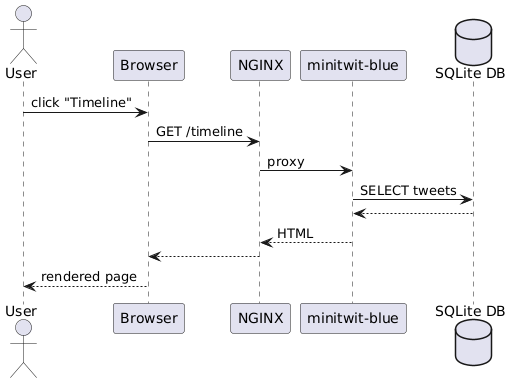
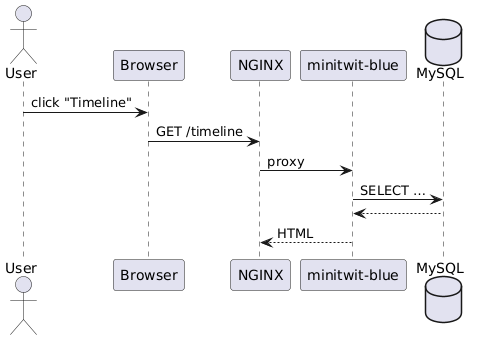
fix: update report PDF generation to remove landscape orientation and adjust MySQL references in documentation

diff --git a/report/report.md b/report/report.md
@@ -13,10 +13,13 @@ The ITU-MiniTwit platform is **fully hosted on DigitalOcean** and embraces a con
 
 | Droplet         | Public IP       | Role                    | Main containers                                                                                             |
 | --------------- | --------------- | ----------------------- | ----------------------------------------------------------------------------------------------------------- |
-| **app-prod-01** | `161.35.71.145` | User-facing application | `nginx`, `minitwit-blue`, `minitwit-green`, `simulator-api`                                                 |
+| **app-prod-01** | `161.35.71.145` | User-facing application | `nginx`, `mysql` `minitwit-blue`, `minitwit-green`, `simulator-api`                                                 |
 | **mon-prod-01** | `68.183.210.76` | Observability stack     | `prometheus`, `grafana`, `elasticsearch`, `kibana`, `filebeat`, `alertmanager`, `node-exporter`, `cadvisor` |
 
-A **blue-green strategy** is enforced at the container layer: two identical backend containers run in parallel; a `/etc/nginx/conf.d/upstream.conf` symlink determines which revision receives live traffic.  State is isolated in a named Docker volume holding **SQLite** (WAL + shared-cache mode).  Structured JSON logs are mounted into `/var/lib/minitwit/logs`; `filebeat.yml` harvests and ships lines over the VPC to Elasticsearch.
+* **MySQL**: Uses `mysql:latest`, initializes schema via `schema.sql`, exposes port `${MYSQL_PORT}:3306`.
+* **App services**: All read `DATABASE_URL=jdbc:mysql://mysql:3306/${MYSQL_DATABASE}?user=root&password=${MYSQL_ROOT_PASSWORD}` and only start after MySQL healthchecks.
+* **Blue-Green**: Two identical app containers; NGINX symlink flips upstream between them.
+* **Logging & Metrics**: JSON logs → Filebeat → Elasticsearch; `/metrics` and JMX → Prometheus → Grafana.
 
 ### 1.1.1 Component Diagram (PlantUML)
 <!-- image -->
@@ -35,7 +38,7 @@ A **blue-green strategy** is enforced at the container layer: two identical back
 | **Security libs**          | jBCrypt                                                 | Password hashing                                       |
 | **Logging**                | SLF4J + Logback                                         | Structured JSON logs                                                        |
 | **Metrics client**         | Prometheus Java client & JMX agent 0.18                 | JVM & HTTP metric exposition                          |
-| **Data**                   | SQLite (WAL)                                            | Zero‑ops DB, write concurrency                                              |
+| **Data**                   | MySQl                                            | ACID-compliant relational DB; schema init via SQL                                              |
 | **Containerisation**       | Docker + Docker Compose                                 | Environment parity, blue‑green pattern               |
 | **Observability platform** | Prometheus, Grafana, node‑exporter, cAdvisor            | Metrics scrape & dashboards                            |
 | **Log stack**              | Filebeat, Elasticsearch, Kibana                         | Structured log shipping & search                      |
@@ -65,7 +68,7 @@ By wiring each plugin into the POM (configuring Checkstyle’s rule set), any ne
 
 1. **Java 21 LTS** – Virtual threads reduce thread-per-req overhead, ensure future-proof support.
 2. **Docker/Compose** – Reproducible local dev & prod, blue-green implemented via container labels + NGINX.
-3. **SQLite** – Meets workload (< 500 req/s), zero-maintenance, mitigated via WAL + pool.
+3. **MySQL** - Needed robust concurrency, ACID guarantees and horizontal scaling beyond SQLite.
 4. **Prometheus/Grafana** – Open, query-flexible, no external latency.
 5. **ELK** – Full-text debugging faster than Loki; Filebeat lightweight.
 6. **DigitalOcean** – Simpler pricing vs. AWS, gives floating IPs & VPC out-of-box.
@@ -191,18 +194,15 @@ During this project, our two-person team confronted tight deadlines, infrastruct
 
 **Challenges:**
 
-* **Single-database simplicity**: We used only SQLite throughout—no full ORM or multi-DB layering—leading to manual SQL scattered in DAO-like methods and occasional repetitive code.
-* **Scope management**: As a team of two, balancing feature scope versus stability was tough; early attempts to over-engineer (e.g., planning microservices) had to be shelved.
+* **SQLite → MySQL migration**: Exported data via CSV, imported with `LOAD DATA INFILE`; adjusted SQL dialect (date functions, quoting), which broke early Grafana dashboards.
+* **Manual SQL duplication**: Helper methods in `Database.java` minimized repetition.
+* **Scope management**: Two-person team shelved microservices for MVP.
 
-**Solutions:**
+**Lessons:**
 
-* Embraced SQLite’s simplicity: centralised connection logic in a helper class (`Database.java`), documented common patterns, and reused SQL snippets in a shared utility to reduce duplication.
-* Adopted an MVP-first mindset: focused on core flows (register, post, follow) before any advanced refactoring or secondary features.
-
-**Lessons Learned:**
-
-1. **Keep it simple**: For small teams, minimal abstractions accelerate progress. SQLite served well at our scale and avoided operational overhead.
-2. **Prioritise core functionality**: Building a minimum viable pipeline prevented wasted effort on unneeded complexity.
+1. **Start simple**: SQLite accelerated prototyping.
+2. **Plan migrations**: Test data & query changes end-to-end to avoid silent failures.
+3. **Abstract common logic**: Central helpers ease future refactoring.
 
 ### 3.2 Operation
 
@@ -226,21 +226,22 @@ During this project, our two-person team confronted tight deadlines, infrastruct
 
 ### 3.3 Maintenance
 
-**Challenges:**
+* **Issue:** Merge bottlenecks in two-person team.
+  **Solution:** Daily stand-ups; clear task ownership.
+* **Issue:** Outdated docs.
+  **Solution:** Docs-as-code; CI-driven PDF builds; PlantUML alongside code.
+* **Lessons:** Automate docs; streamline onboarding with `make dev-up`.
 
 * **Workload balance**: With only two contributors, reviews and testing overlapped, causing merge bottlenecks.
 * **Documentation lag**: Keeping docs up-to-date with code changes was deprioritised under tight deadlines.
-
-**Lessons Learned:**
-
-1. **Regular communication**: Even small teams need structured check‑ins to avoid duplicated effort.
-2. **Docs-as-code**: Automating documentation reduces drift and ensures accuracy under time pressure.
+* **Regular communication**: Even small teams need structured check‑ins to avoid duplicated effort.
 
 ## 3.4 DevOps‑style Work Approach
 
 * **Survival development** – Tried to cope with the high workload, was hard to manage as only two people
 * **“You build it, you run it”**
 * **Automated everything** – One‑click (`gh workflow run deploy.yml`) recreates stack from scratch; mean time to recover (MTTR) < 5 min.
+* **test locally, test in deployment** and always be sure you know a quick way, to roll back to the previous version
 
 ### Key Takeaways
 
@@ -248,5 +249,4 @@ During this project, our two-person team confronted tight deadlines, infrastruct
 2. **Small, safe releases** – Blue‑green eliminated rollbacks pains (no DB migrations during cycle).
 3. **Shared responsibility** – Ops knowledge spread across team → no gatekeepers.
 
-# Appendix A
-![c4-container](img/c4-container.png)
+
